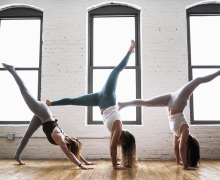
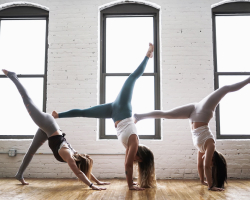
Замена изображений направлений

diff --git a/index.html b/index.html
@@ -79,7 +79,7 @@
           <!-- 1 -->
           <article class="branches__branch branch">
             <div class="img-wrap">
-              <img class="branch__img" src="" alt="Направление Хатха-йога">
+              <img class="branch__img" src="./build/img/branch-1.jpg" width="250" height="200" alt="Направление Хатха-йога">
             </div>
             <div class="branch__info">
               <h3 class="branch__title">Хатха-йога</h3>
@@ -103,7 +103,7 @@
             <!-- 2 -->
             <article class="branches__branch branch">
               <div class="img-wrap">
-                <img class="branch__img" src="" alt="Направление Хатха-йога">
+                <img class="branch__img" src="./build/img/branch-2.jpg" width="250" height="200" alt="Направление Хатха-йога">
               </div>
               <div class="branch__info">
                 <h3 class="branch__title">Ашатанга-йога</h3>
@@ -126,7 +126,7 @@
             <!-- 3 -->
             <article class="branches__branch branch">
               <div class="img-wrap">
-                <img class="branch__img" src="" alt="Направление Хатха-йога">
+                <img class="branch__img" src="./build/img/branch-3.jpg" width="250" height="200" alt="Направление Хатха-йога">
               </div>
               <div class="branch__info">
                 <h3 class="branch__title">Кундалини-йога</h3>

diff --git a/src/css/style.css b/src/css/style.css
@@ -117,6 +117,10 @@ h2 {
   border: none;
 }
 
+.screen-number {
+  display: none;
+}
+
 /* ХЕДЕР */
 
 .header {
@@ -168,10 +172,6 @@ h2 {
   align-items: center;
 }
 
-.promo .screen-number {
-  display: none;
-}
-
 .promo__slogan {
   margin-bottom: 20px;
 
@@ -221,6 +221,13 @@ h2 {
 }
 
 /* НАПРАВЛЕНИЯ */
+
+.branches__title {
+  margin-bottom: 40px;
+
+  font-weight: 700;
+  text-align: center;
+}
 
 /* АБОНЕМЕНТЫ */
 
